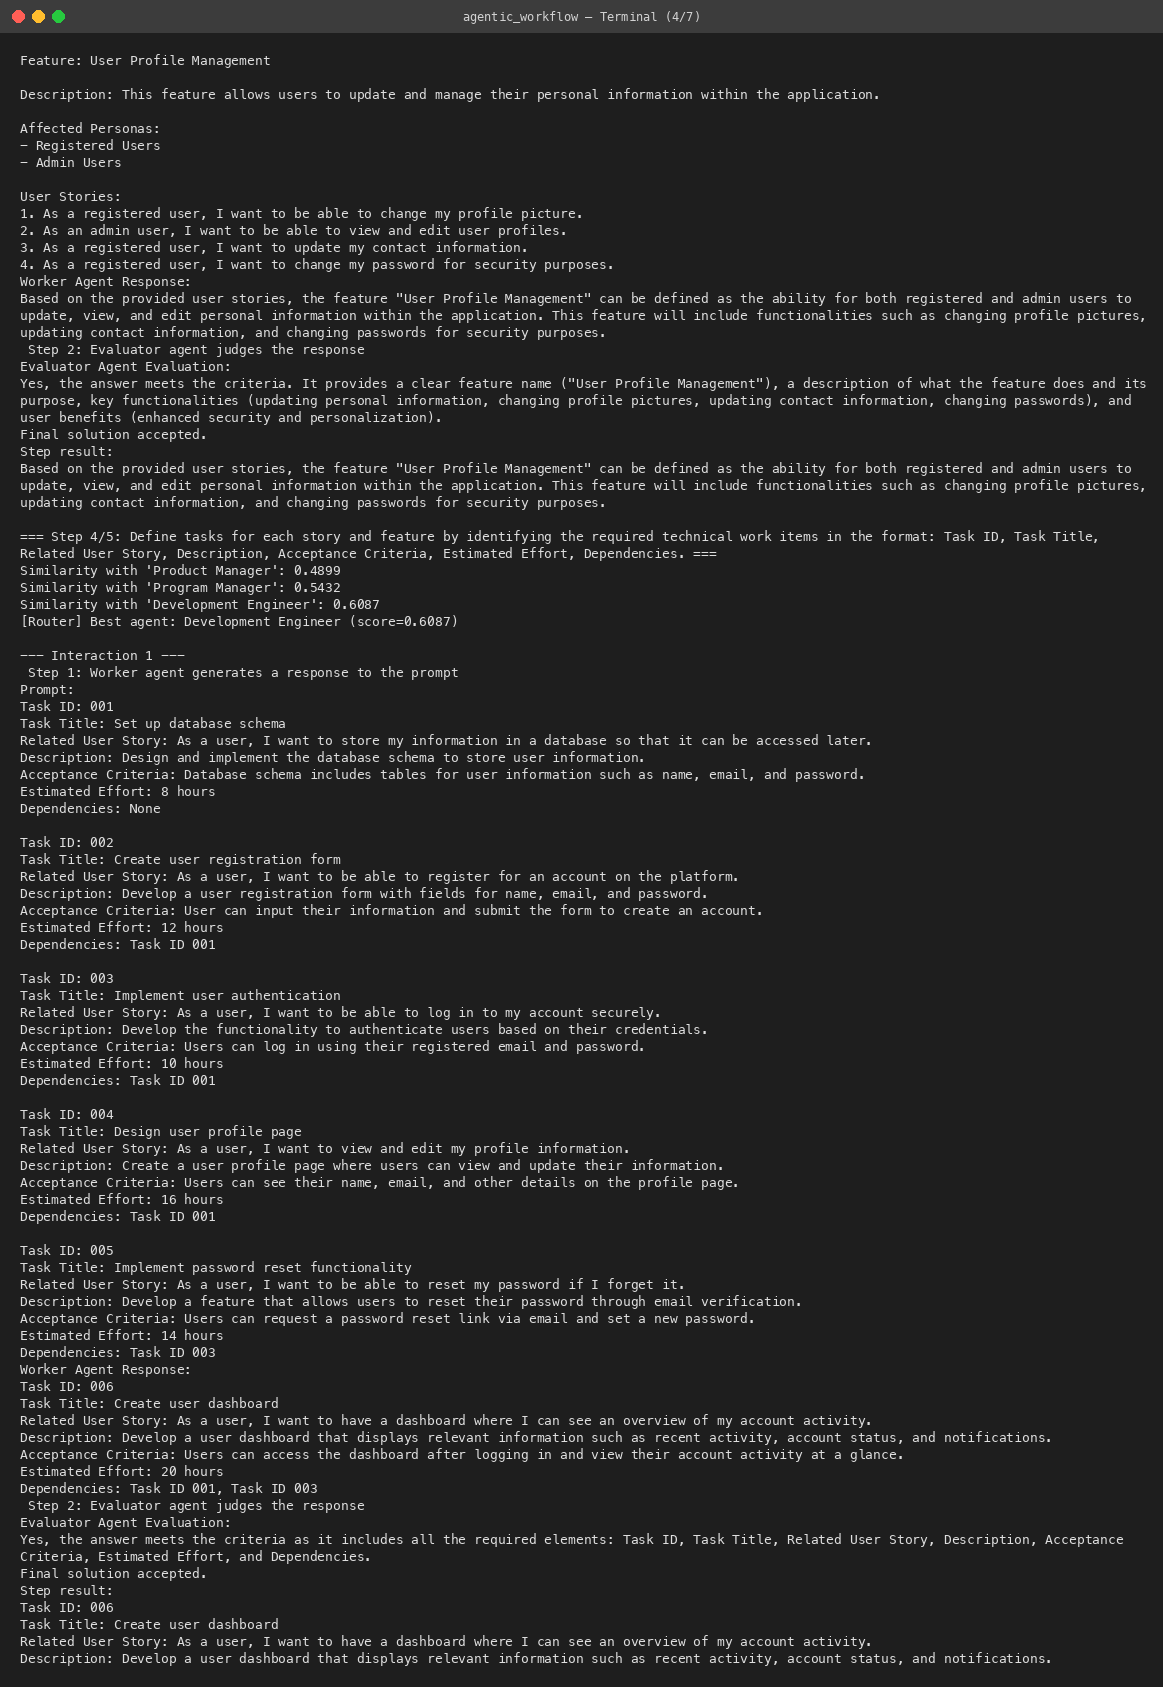
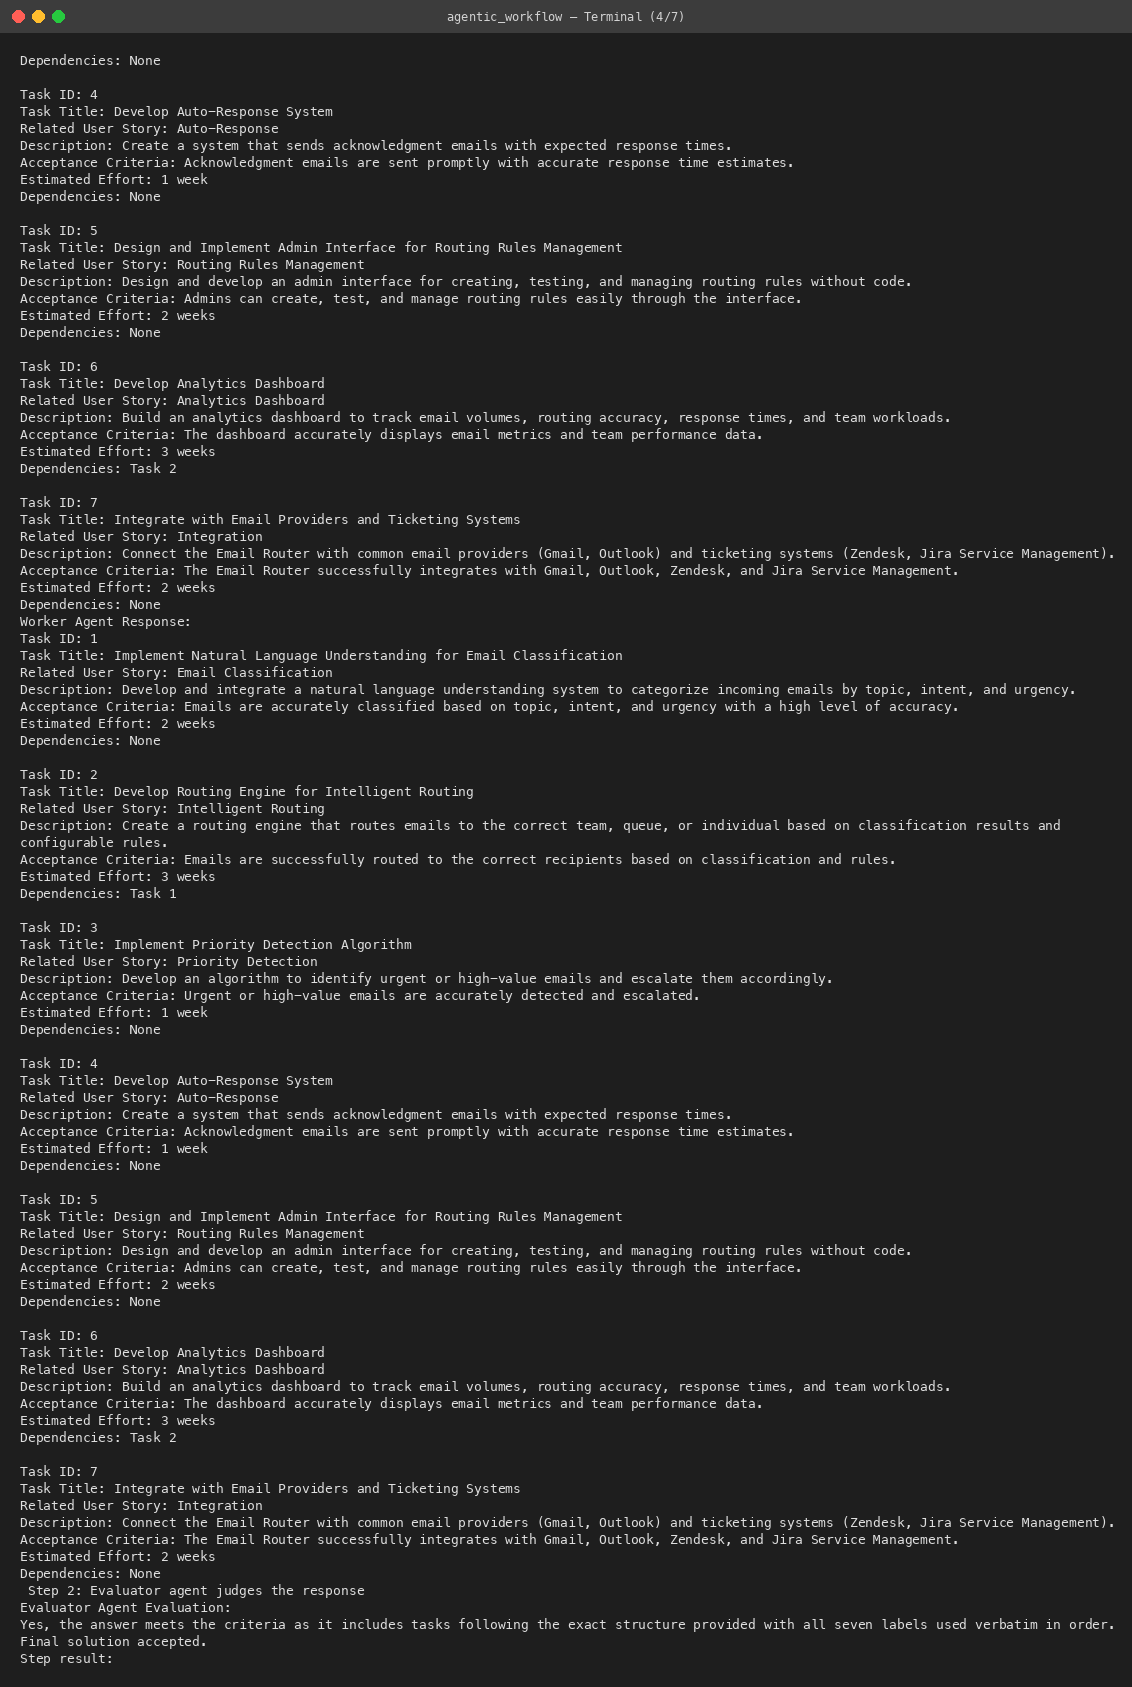
updates
fixes

Changed region(s): [[0.0, 0.0308, 0.9585, 0.9864], [0.4019, 0.0, 0.4329, 0.0308]]

diff --git a/phase_2/agentic_workflow.py b/phase_2/agentic_workflow.py
@@ -28,9 +28,9 @@ knowledge_action_planning = (
     "Stories are defined by writing sentences with a persona, an action, and a desired outcome. "
     "The sentences always start with: As a "
     "Features are defined by grouping related user stories. "
-    "Features are defined by giving them a descriptive name, providing a "
-    "short description, listing the affected personas, and defining the "
-    "user stories they group, in this format: Feature Name, Description, Key Functionality, User Benefit. "
+    "Features are defined by giving them a descriptive name, a short description, "
+    "the key functionality it provides, and the user benefit it delivers, "
+    "in this format: Feature Name, Description, Key Functionality, User Benefit. "
     "Tasks are defined for each story and feature by identifying "
     "the required technical work items in this format: Task ID, Task Title, "
     "Related User Story, Description, Acceptance Criteria, Estimated Effort, Dependencies. "
@@ -43,14 +43,8 @@ persona_product_manager = (
 persona_program_manager = (
     "You are a Program Manager, you are responsible for defining the features for a product."
 )
-knowledge_program_manager = (
-    "Features of a product are defined by organizing similar user stories into cohesive groups."
-)
 persona_dev_engineer = (
     "You are a Development Engineer, you are responsible for defining the development tasks for a product."
-)
-knowledge_dev_engineer = (
-    "Development tasks are defined by identifying what needs to be built to implement each user story."
 )
 
 persona_evaluator = (
@@ -65,7 +59,10 @@ evaluation_criteria_program_manager = (
     "Feature Name: A clear, concise title that identifies the capability\n"
     "Description: A brief explanation of what the feature does and its purpose\n"
     "Key Functionality: The specific capabilities or actions the feature provides\n"
-    "User Benefit: How this feature creates value for the user"
+    "User Benefit: How this feature creates value for the user\n"
+    "Every feature must use all four labels above verbatim, in order. If any feature "
+    "uses different field names (e.g. \"Affected Personas\" or \"User Stories\" instead "
+    "of \"Key Functionality\" and \"User Benefit\"), or omits a label, answer No."
 )
 evaluation_criteria_dev_engineer = (
     "The answer should be tasks following this exact structure: "
@@ -75,7 +72,9 @@ evaluation_criteria_dev_engineer = (
     "Description: Detailed explanation of the technical work required\n"
     "Acceptance Criteria: Specific requirements that must be met for completion\n"
     "Estimated Effort: Time or complexity estimation\n"
-    "Dependencies: Any tasks that must be completed first"
+    "Dependencies: Any tasks that must be completed first\n"
+    "Every task must use all seven labels above verbatim, in order, even if a value "
+    "is \"None\". If any task in the answer is missing one or more of these labels, answer No."
 )
 
 
@@ -84,11 +83,36 @@ def build_workflow(openai_api_key, product_spec):
 
     action_planning_agent = ActionPlanningAgent(openai_api_key, knowledge_action_planning)
 
-    # The PM is the only role that needs the actual spec in its knowledge
+    # All three roles get grounded in the actual spec, not just generic
+    # process knowledge — otherwise Program Manager and Dev Engineer drift
+    # into generic SaaS boilerplate instead of Email Router specifics.
     knowledge_product_manager = (
         "Stories are defined by writing sentences with a persona, an action, and a desired outcome. "
         "The sentences always start with: As a "
         "Write several stories for the product spec below, where the personas are the different users of the product. "
+        "The product spec is: " + product_spec
+    )
+    knowledge_program_manager = (
+        "Features of a product are defined by organizing similar user stories into cohesive groups. "
+        "Write each feature using exactly these four labeled fields, in order: "
+        "Feature Name: a clear, concise title. "
+        "Description: what the feature does and why. "
+        "Key Functionality: the specific capabilities it provides. "
+        "User Benefit: the value it creates for the user. "
+        "Define features for the product spec below, where each feature groups related capabilities "
+        "of the product. The product spec is: " + product_spec
+    )
+    knowledge_dev_engineer = (
+        "Development tasks are defined by identifying what needs to be built to implement each user "
+        "story and feature. Write each task using exactly these seven labeled fields, in order: "
+        "Task ID: a unique identifier. "
+        "Task Title: brief description of the work. "
+        "Related User Story: the parent user story. "
+        "Description: the technical work required. "
+        "Acceptance Criteria: requirements for completion. "
+        "Estimated Effort: time or complexity estimate. "
+        "Dependencies: other tasks that must complete first, or \"None\". "
+        "Define development tasks for the product spec below. "
         "The product spec is: " + product_spec
     )
 
@@ -140,24 +164,29 @@ def build_workflow(openai_api_key, product_spec):
         {
             "name": "Product Manager",
             "description": (
-                "Responsible for defining product personas and user stories only. "
-                "Does not define features or tasks. Does not group stories."
+                "Handles steps that ask to define, write, or create user personas "
+                "and new user stories from scratch for a product. Does not handle "
+                "steps that group, organize, or combine existing stories into "
+                "features. Does not handle steps about engineering tasks."
             ),
             "func": support_functions["Product Manager"],
         },
         {
             "name": "Program Manager",
             "description": (
-                "Responsible for defining product features by grouping related "
-                "user stories only. Does not define user stories or tasks."
+                "Handles steps that ask to group, organize, or combine already-"
+                "written user stories into product features. Does not handle "
+                "steps that define, write, or create new user stories. Does not "
+                "handle steps about engineering tasks."
             ),
             "func": support_functions["Program Manager"],
         },
         {
             "name": "Development Engineer",
             "description": (
-                "Responsible for defining development tasks needed to implement "
-                "user stories and features only. Does not define user stories or features."
+                "Handles steps that ask to define, write, or specify engineering "
+                "or development tasks needed to build a product. Does not handle "
+                "steps that define user stories or product features."
             ),
             "func": support_functions["Development Engineer"],
         },
@@ -177,8 +206,17 @@ def main():
 
     print("\n*** Workflow execution started ***\n")
 
-    # A golden prompt — the kind of thing a TPM would actually ask
-    workflow_prompt = "What would the development tasks for this product be?"
+    # A golden prompt — the kind of thing a TPM would actually ask. Names the
+    # product explicitly (otherwise the planner can drift to a generic example)
+    # and asks for exactly three top-level phases so it doesn't fragment into
+    # one "step" per bullet point.
+    workflow_prompt = (
+        "Create a full development plan for the Email Router product described in "
+        "the product spec: first define the user stories, then group them into "
+        "product features, then specify the engineering tasks needed to build it. "
+        "Return exactly three steps — one for user stories, one for features, one "
+        "for tasks — do not break any of them into further sub-steps."
+    )
     print(f"Task to complete in this workflow, workflow prompt = {workflow_prompt}")
 
     print("\nDefining workflow steps from the workflow prompt")
@@ -194,8 +232,14 @@ def main():
         print(f"Step result:\n{step_result}")
 
     print("\n*** Workflow execution completed ***\n")
-    print("Final output of the workflow:")
-    print(completed_steps[-1] if completed_steps else "No steps were completed.")
+    print("Final output of the workflow — consolidated development plan:\n")
+    if not completed_steps:
+        print("No steps were completed.")
+    else:
+        for step, result in zip(workflow_steps, completed_steps):
+            print(f"----- {step} -----")
+            print(result)
+            print()
 
 
 if __name__ == "__main__":

diff --git a/phase_1/workflow_agents/base_agents.py b/phase_1/workflow_agents/base_agents.py
@@ -336,7 +336,6 @@ class ActionPlanningAgent:
 
     # Matches leading list markers: "1.", "2)", "-", "*", "Step 3:" etc.
     _MARKER = re.compile(r"^(?:step\s*\d+\s*[:.)-]?|\d+\s*[.)-]|[-*•])\s*", re.IGNORECASE)
-    _PREAMBLE = ("here are", "steps:", "the steps", "below are")
 
     def __init__(self, openai_api_key, knowledge, client=None, chat_model=CHAT_MODEL):
         self.openai_api_key = openai_api_key
@@ -367,10 +366,11 @@ class ActionPlanningAgent:
 
         steps = []
         for raw_line in raw.splitlines():
-            line = self._MARKER.sub("", raw_line.strip()).strip()
-            if not line:
-                continue
-            if line.lower().startswith(self._PREAMBLE):
-                continue
-            steps.append(line)
+            stripped = raw_line.strip()
+            match = self._MARKER.match(stripped)
+            if not match:
+                continue  # not an actual list item — a preamble/header line
+            line = stripped[match.end():].strip()
+            if line:
+                steps.append(line)
         return steps

diff --git a/phase_2/workflow_agents/base_agents.py b/phase_2/workflow_agents/base_agents.py
@@ -336,7 +336,6 @@ class ActionPlanningAgent:
 
     # Matches leading list markers: "1.", "2)", "-", "*", "Step 3:" etc.
     _MARKER = re.compile(r"^(?:step\s*\d+\s*[:.)-]?|\d+\s*[.)-]|[-*•])\s*", re.IGNORECASE)
-    _PREAMBLE = ("here are", "steps:", "the steps", "below are")
 
     def __init__(self, openai_api_key, knowledge, client=None, chat_model=CHAT_MODEL):
         self.openai_api_key = openai_api_key
@@ -367,10 +366,11 @@ class ActionPlanningAgent:
 
         steps = []
         for raw_line in raw.splitlines():
-            line = self._MARKER.sub("", raw_line.strip()).strip()
-            if not line:
-                continue
-            if line.lower().startswith(self._PREAMBLE):
-                continue
-            steps.append(line)
+            stripped = raw_line.strip()
+            match = self._MARKER.match(stripped)
+            if not match:
+                continue  # not an actual list item — a preamble/header line
+            line = stripped[match.end():].strip()
+            if line:
+                steps.append(line)
         return steps
